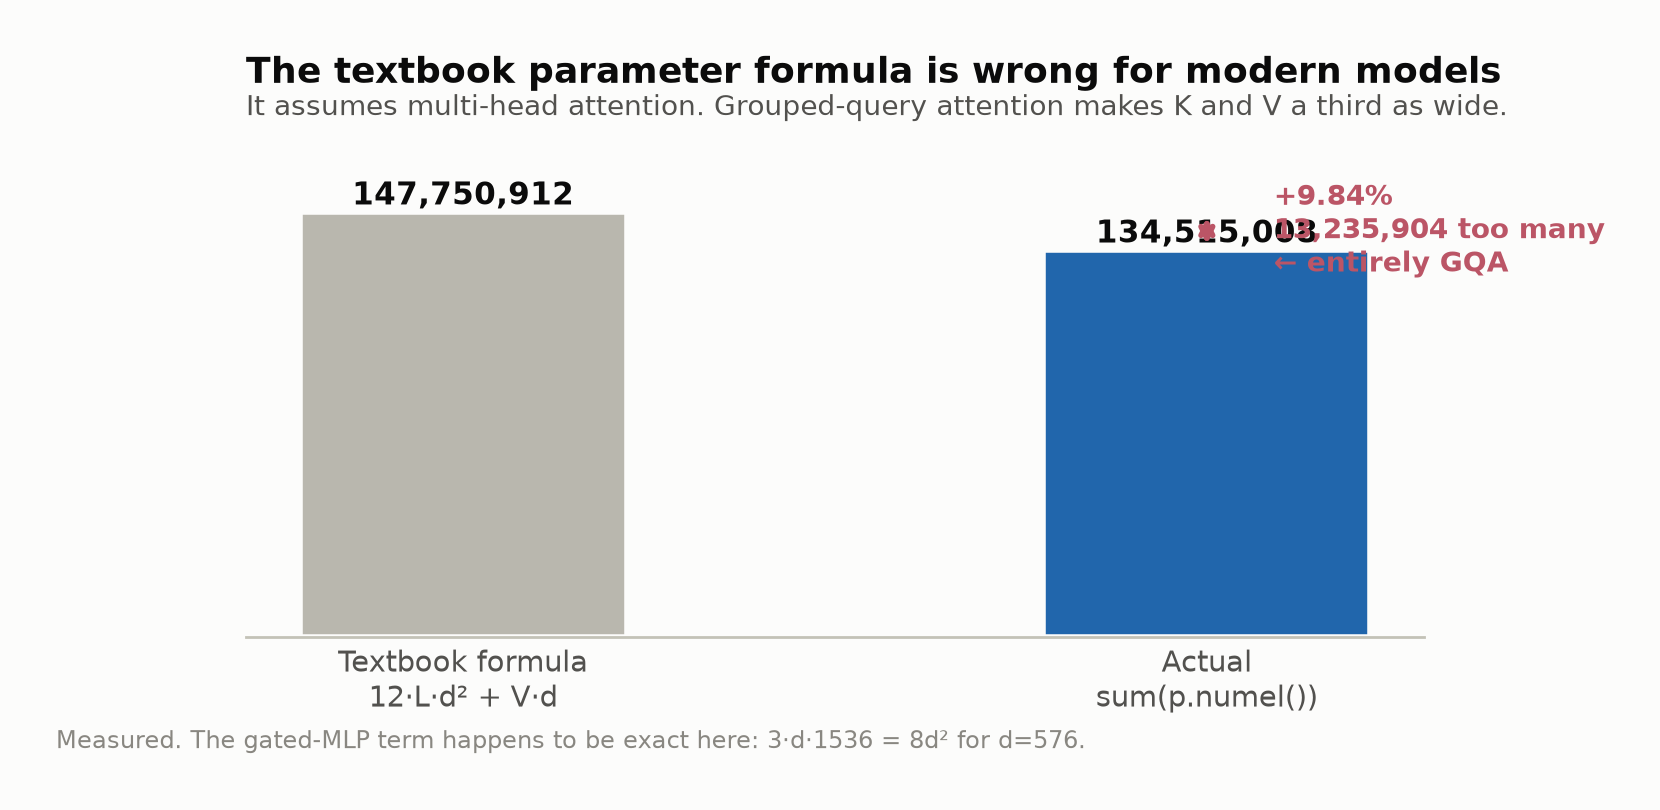
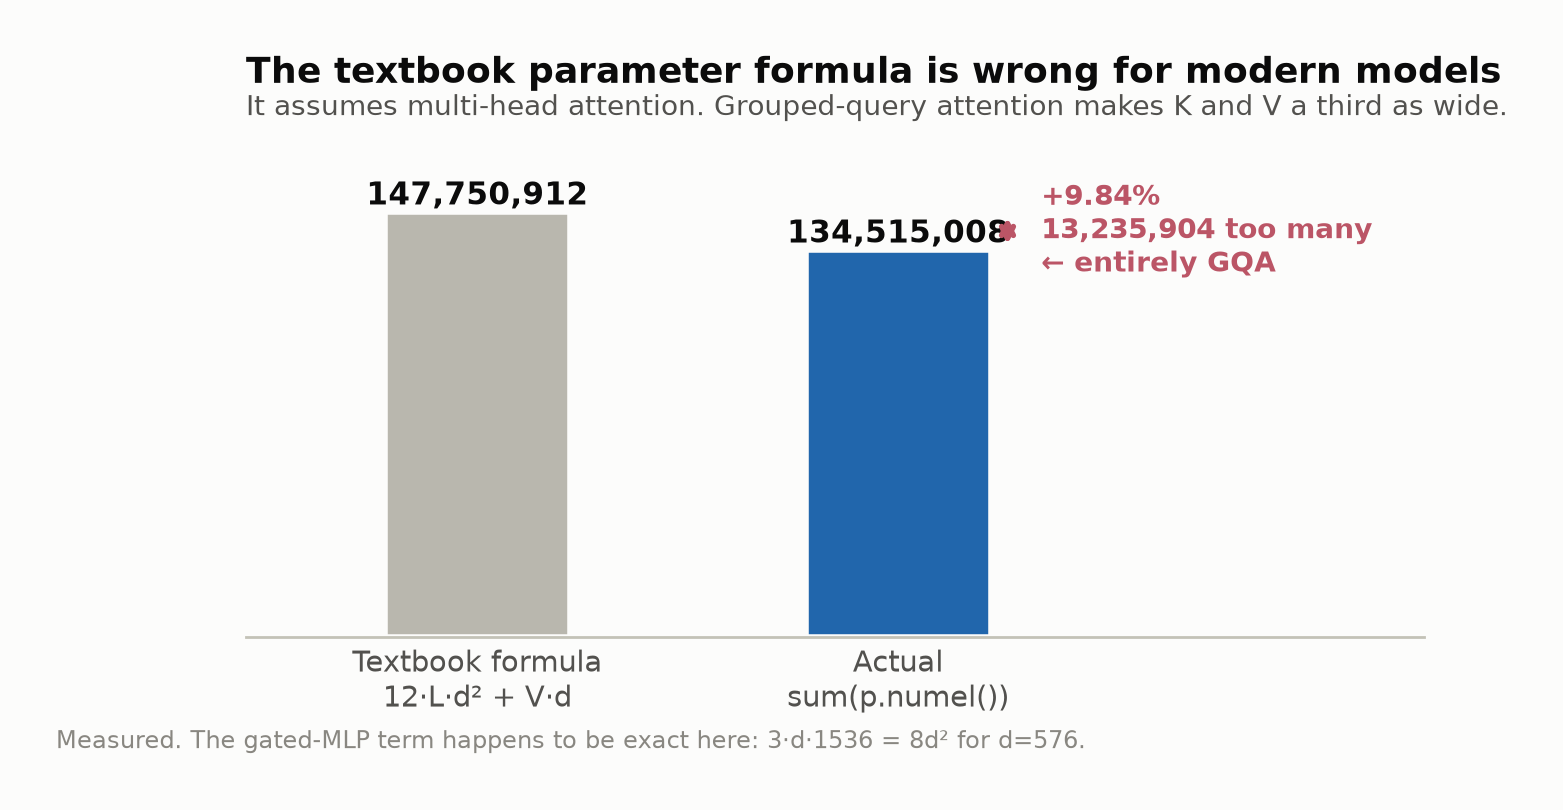
docs: a start-here brief for the next session
Names what to read, what state the repo is in, what to do next, and — the part that
matters — what not to bring back. A replaced design leaves traces in git history and in
half-remembered context, and an agent encountering them tends to preserve fragments out
of caution. Listing the dead architecture explicitly is cheaper than hoping it is not
rediscovered.

It also records the two decisions deliberately left open, so they are made once by the
person writing the baseline rather than assumed by whoever reads the repo next.

Changed region(s): [[0.0307, 0.216, 0.9827, 0.9259], [0.1536, 0.0617, 0.952, 0.1543], [0.8599, 0.7716, 0.8906, 0.8025]]

diff --git a/docs/START_HERE.md b/docs/START_HERE.md
@@ -1,0 +1,64 @@
+# Start here
+
+Read `CLAUDE.md` and `PROFILING.md`. Those two, and nothing else in `docs/`. This file
+tells you what state the repo is in and what to do next.
+
+## What this is
+
+Titus is learning distributed training to onboard onto HuggingFace accelerate. He writes
+small self-contained study scripts by hand; you write the profiling that measures them.
+`CLAUDE.md` has the division of labour and it is not the usual one — **you do not write
+training loops here.**
+
+## State
+
+The repo was restructured on 2026-08-07 after a code review by Marc Sun. It is clean and
+green, and there is no work in progress.
+
+- `scripts/` — empty except its README. The baseline does not exist yet.
+- `l2c/` — profiling harness, pruned to measurement only. 21 tests pass.
+- `bench/` — empty. Results and figures land here.
+- `docs/_wiki_build/` — **owned by a separate effort. Do not touch.** It imports
+  `l2c.common.model`, so that module must keep working.
+
+## Next, in order
+
+1. **Titus hand-writes `scripts/01_baseline.py`.** A plain fp32 single-GPU training loop,
+   under ~50 lines, self-contained. If he asks for help, act as a documentation lookup —
+   name the torch APIs, describe the shape, link the docs. Do not write it for him.
+
+2. **Build the skill** at `.claude/skills/profile-script/SKILL.md`. It takes a
+   `scripts/NN_topic.py` and produces `scripts/NN_topic_profiled.py` following
+   `PROFILING.md` exactly, runs it, and writes JSON to `bench/results/` plus a figure to
+   `bench/figures/`. The twin is regenerated, never hand-edited.
+
+3. **Run it on the baseline** and check the signals in `PROFILING.md`: parameter count,
+   initial loss against `ln(V)`, loss decreasing, peak memory against the prediction.
+
+Then topics, one per script, each a copy-and-modify of the baseline: mixed precision,
+gradient accumulation, optimizer swap, dataloader variations, gradient clipping, TF32.
+One modification per script — do not stack them.
+
+## Do not resurrect
+
+A previous design was replaced wholesale. If you find traces of it in git history or in a
+stale comment, leave them there:
+
+- `steps/stepN_*/` directories, `prediction.toml`, `NOTES.md` as a per-step lab notebook
+- a shared `collect` / `publish` / row-spec reporting layer
+- `build_model` / `build_loader` / `build_batches` / `training_step` helper wrappers
+- a shared argparse module, or a subprocess runner that drives several arms at once
+- `results.jsonl`
+
+The reasoning is in `PROFILING.md` and `CLAUDE.md`. The short version: study scripts are
+read linearly and modified independently, so shared helpers cost comprehension and let one
+experiment perturb another.
+
+## Open, for Titus to decide when he writes the baseline
+
+- Whether the loop shows forward and score as two lines (`logits = model(...)`, then
+  `loss = loss_fn(logits, labels)`) or one (`loss = model(..., labels=ids).loss`). The
+  two-line form is more instructive; the one-line form is what most people write and
+  avoids a live reference that inflates peak memory. `PROFILING.md` covers the trap.
+- Whether the baseline uses a random-init model or a pretrained checkpoint. Both are fine;
+  random init gives the free `ln(V)` check.
